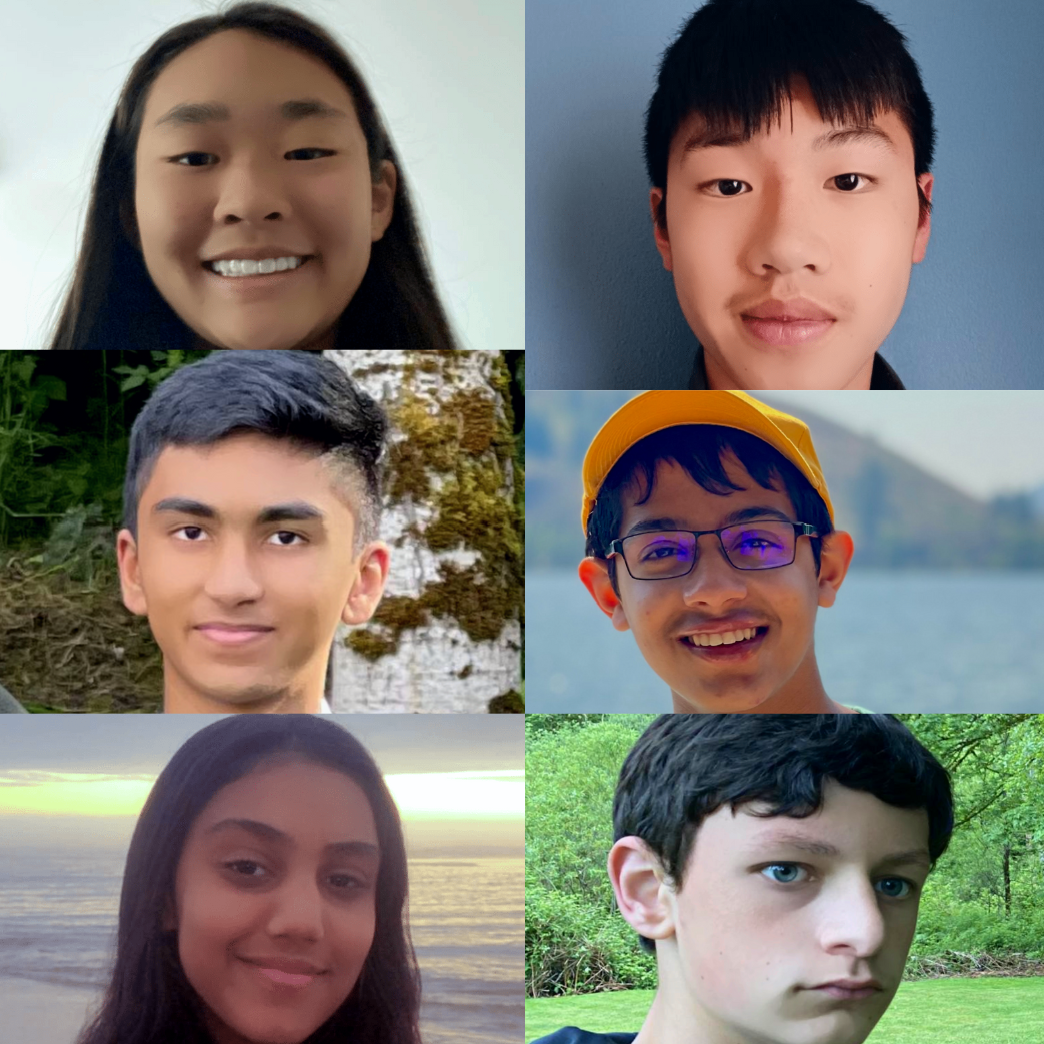
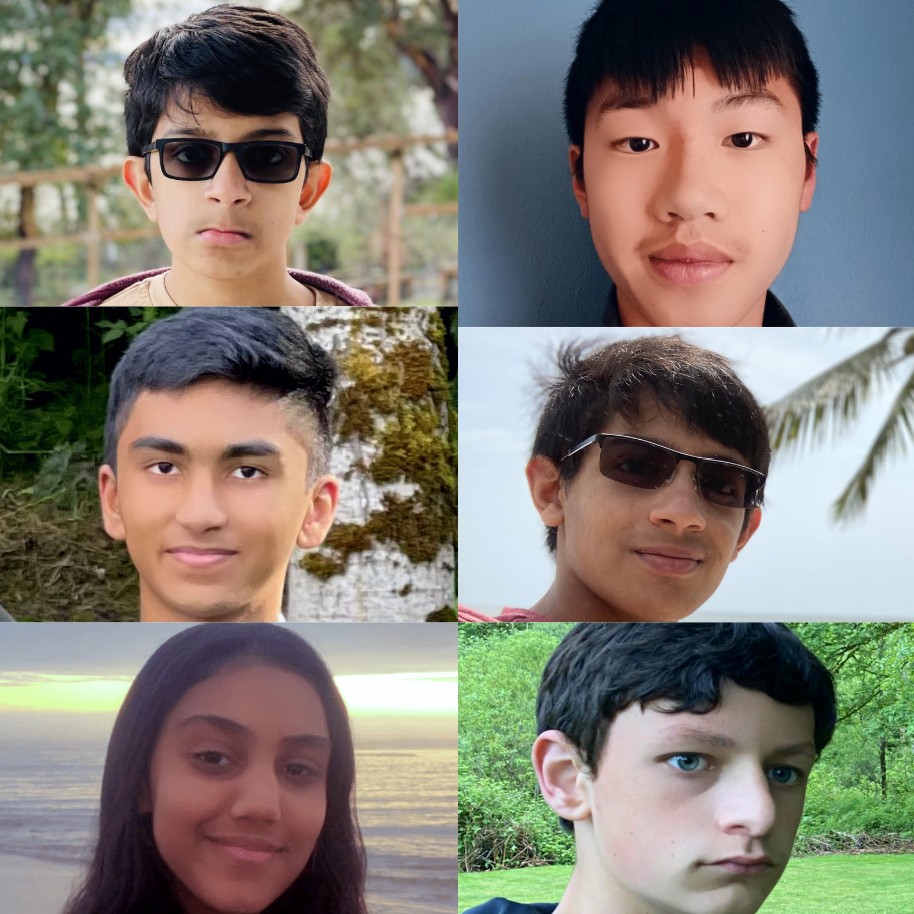
removed lauren, added ishaan

diff --git a/views/memberscontact.html b/views/memberscontact.html
@@ -96,15 +96,13 @@
       <div class="col-md-6 col-lg-4">
         <div class="card bg-light fade-in" data-delay="100">
           <div class="card-body text-center">
-            <img src="/public/laurenprofile1.png" class="rounded-circle mb-4 w-75 shadow" alt="Picture of Lauren" />
-            <h3 class="card-title mb-3">Lauren Kim</h3>
+            <img src="/public/ishaanprofile1.png" class="rounded-circle mb-4 w-75 shadow" alt="Picture of Ishaan" />
+            <h3 class="card-title mb-3">Ishaan M</h3>
             <p class="card-text">
-              I'm one of the people to work in outreach. I love to play
-              sports and read! Being apart of this robotics team is so much
-              fun!
+              I enjoy coding, especially web development. My hobbies are watching and playing basketball.
             </p>
-            <a href="javascript:void(0);" data-copy="lk29#0199"><i class="bi bi-discord text-dark mx-1"></i></a>
-            <a href="tel:+14256478226"><i class="bi bi-phone text-dark mx-1"></i></a>
+            <a href="javascript:void(0);" data-copy="-Tommy#6399"><i class="bi bi-discord text-dark mx-1"></i></a>
+            <a href="tel:+12536424468"><i class="bi bi-phone text-dark mx-1"></i></a>
           </div>
         </div>
       </div>
